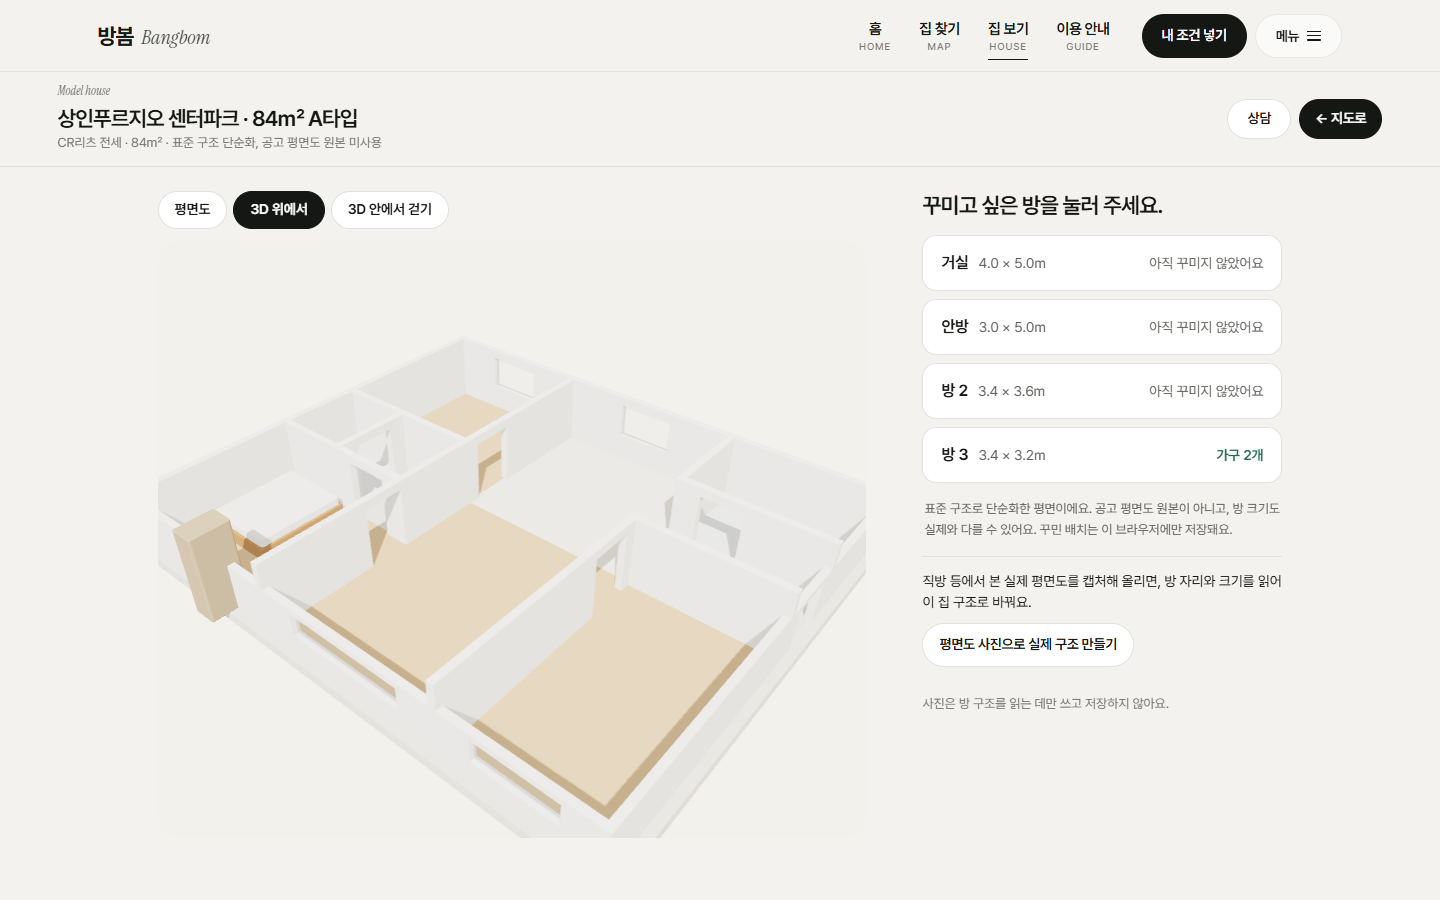
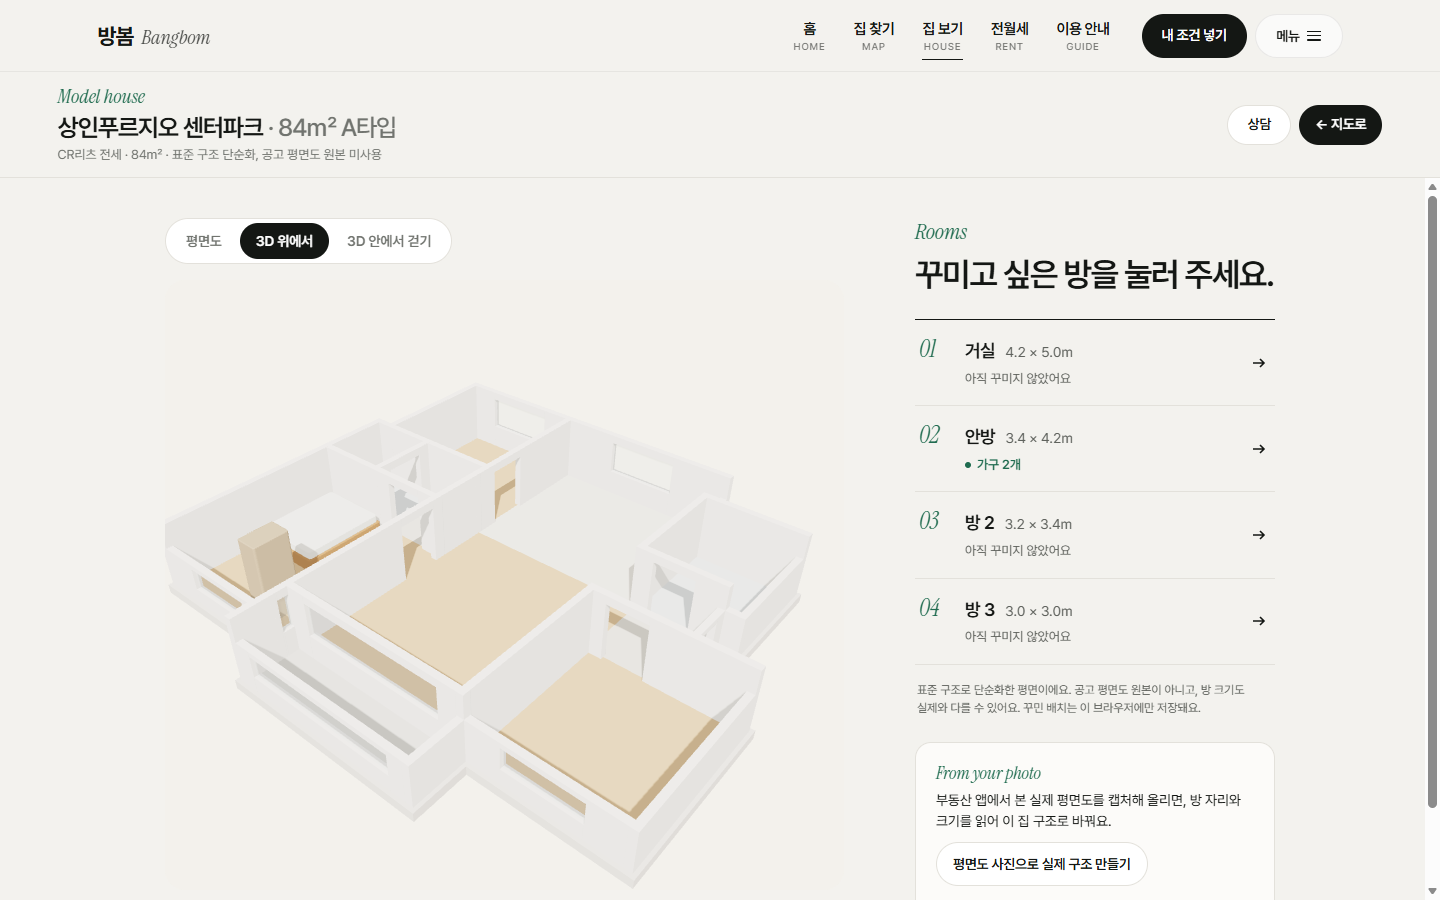
시연 영상 기획 요청서: 새 평면도·지도·집 보기 화면 반영, 참고 그림 갱신

diff --git a/reports/시연영상_기획요청_Gemini.md b/reports/시연영상_기획요청_Gemini.md
@@ -1,8 +1,9 @@
 # 방봄 시연 영상 기획 요청서
 
 > 이 문서를 받는 AI(Gemini)에게: 아래 서비스 "방봄"의 **시연 녹화 영상 기획안**을 만들어 주세요.
-> 참고 화면은 같은 폴더의 `video-ref/` 그림 15장이에요(파일 이름에 번호와 화면 이름이 있어요).
+> 참고 화면은 같은 폴더의 `video-ref/` 그림 18장이에요(파일 이름에 번호와 화면 이름이 있어요).
 > 공개 사이트: https://bangkkumi2.vercel.app
+> 고친 날: 2026-11-27 (평면도 모양, 지도, 집 보기 화면이 바뀌어서 그림 05·08·09를 새로 찍고 16~18을 더했어요)
 
 ---
 
@@ -31,12 +32,15 @@
 
 ## 3. 지금 실제로 작동하는 기능 (화면을 그대로 녹화해도 되는 것)
 
-1. **홈 5화면**: 히어로 → 문제 → 해결 1 → 해결 2 → 시작하기 (그림 01~05)
+1. **홈 5화면**: 히어로 → 문제 → 해결 1 → 해결 2 → 시작하기 (그림 01~05). 시작하기에는 단지마다 실제 아파트처럼 들쭉날쭉한 평면도 카드가 옆으로 넘어가요
 2. **조건 입력 8문항**: 한 화면에 한 문항씩, 금액은 원 단위로 세 자리마다 쉼표가 들어가요
 3. **판정 결과**: 대출·지원마다 요건 충족 / 확인 필요 / 미충족, 같이 못 받는 지원 거르기, 0곳이면 "이렇게 하면 열려요" 안내 (그림 06)
-4. **2.5D 지도**: 대구 9개 구·군 위에 단지들이 놓여 있어요. 조건이 맞는 단지는 저녁 톤 지도에서 창문에 불이 켜져요. 단지를 누르면 가까이 다가가 지하철역·병원·공원까지 선으로 이어져요
+4. **2.5D 지도**: 대구 9개 구·군 전체에 회색 배경 아파트 단지와 건물이 빽빽하게 서 있고, 그 사이에 판정 대상 단지(주황·베이지 띠)가 놓여 있어요 (그림 16). 조건이 맞는 단지는 저녁 톤 지도에서 창문에 불이 켜져요. 단지를 누르면 가까이 다가가 지하철역·병원·공원까지 선으로 이어져요
 5. **단지 카드**: 지원 반영 월 부담(원 단위), 계산 내역, 적용·빠진 지원, 계약 전 체크리스트, 신청 링크. **크게 보기**도 돼요 (그림 07)
-6. **집 보기**: 집 전체 평면도(마루·타일 무늬, 문 열림 표시) → **3D 위에서 돌려 보기** → **3D 안에서 걷기**(방을 골라 서 보기) (그림 08, 09)
+6. **집 보기**: 집 전체 평면도 → **3D 위에서 돌려 보기** → **3D 안에서 걷기**(방을 골라 서 보기) (그림 17, 08, 09, 18)
+   - 평면도는 실제 아파트처럼 바깥선이 들쭉날쭉하고 거실 앞에 발코니가 있어요. 마루·타일 무늬, 문 열림, 창문, 주방 조리대·냉장고, 욕조·변기·세면대가 그려져 있고, 위·왼쪽에 건축 도면식 치수선(10.8 m, 9.6 m)이 있어요
+   - 오른쪽에는 꾸밀 방 목록(01 거실, 02 안방 …)이 있고, 누르면 그 방 꾸미기로 들어가요. 가구를 놓은 방은 "가구 2개"처럼 초록 점으로 표시돼요
+   - 장면 아이디어: 평면도 → [3D 위에서]로 집 전체가 입체로 솟아오름 → [3D 안에서 걷기]로 안방에 서 보기 → 목록에서 안방을 눌러 가구 놓기
 7. **방꾸미(방 하나 꾸미기)**: 가구를 놓고 2D·3D로 보기. 문제·개선 제안 피드백, 아이 눈높이(90cm) 보기 (그림 10)
 8. **AI 상담 챗봇**: 대화로 집 찾기("달서구, 전세 2억 5천 이하") + 판정 설명·계약 전 확인 질문에 답해요 (그림 14)
 9. **휴대폰 화면**: 모든 화면이 휴대폰에 맞춰져 있어요 (그림 15)
@@ -91,9 +95,9 @@
 | 02_홈_문제.jpg | 문제: 67.6% · 3,077세대 |
 | 03_홈_해결1_지원찾기.jpg | 해결 1: 조건 → 하나씩 따지기 → 같이 못 받는 것 거르기 |
 | 04_홈_해결2_지도집보기.jpg | 해결 2: 지도 · 평면도와 3D · 가구 (칩으로 바꿔 보기) |
-| 05_홈_시작하기.jpg | 시작하기: 단지 평면 카드 |
-| 06_지도_판정결과.png | 지도 + 판정 결과 패널 ("이렇게 하면 열려요") |
-| 07_단지카드_크게보기.png | 단지 카드 크게 보기 |
+| 05_홈_시작하기.png | 시작하기: 단지 평면 카드 (새 평면도 모양. 제목이 나타나는 중에 찍혀서 흐려요) |
+| 06_지도_판정결과.png | 지도 + 판정 결과 패널 ("이렇게 하면 열려요"). 예전 그림이라 배경 건물이 적어요. 지금 지도는 그림 16처럼 빽빽해요 |
+| 07_단지카드_크게보기.png | 단지 카드 크게 보기 (평면도는 예전 직사각형 모양. 지금은 그림 16의 카드처럼 들쭉날쭉한 모양) |
 | 08_집전체_3D_위에서.png | 집 전체 3D (위에서) |
 | 09_집전체_3D_걷기.png | 집 전체 3D (안에서 걷기) |
 | 10_방꾸미_3D.png | 방꾸미 3D (가구 놓기) |
@@ -102,3 +106,6 @@
 | 13_지도_전월세기록_검사용자료.png | 지도의 전월세 기록 점과 카드 (임시 자료) |
 | 14_AI상담.png | AI 상담 챗봇 |
 | 15_휴대폰_해결2.jpg | 휴대폰 화면 예 |
+| 16_지도_단지선택.png | 지금 지도: 빽빽한 배경 건물 + 단지를 눌러 주변 시설 선과 단지 카드가 열린 모습 |
+| 17_집보기_전체구조.png | 집 보기 첫 화면: 새 평면도 + 치수선 + 꾸밀 방 목록 |
+| 18_휴대폰_집보기.png | 휴대폰의 집 보기 |
